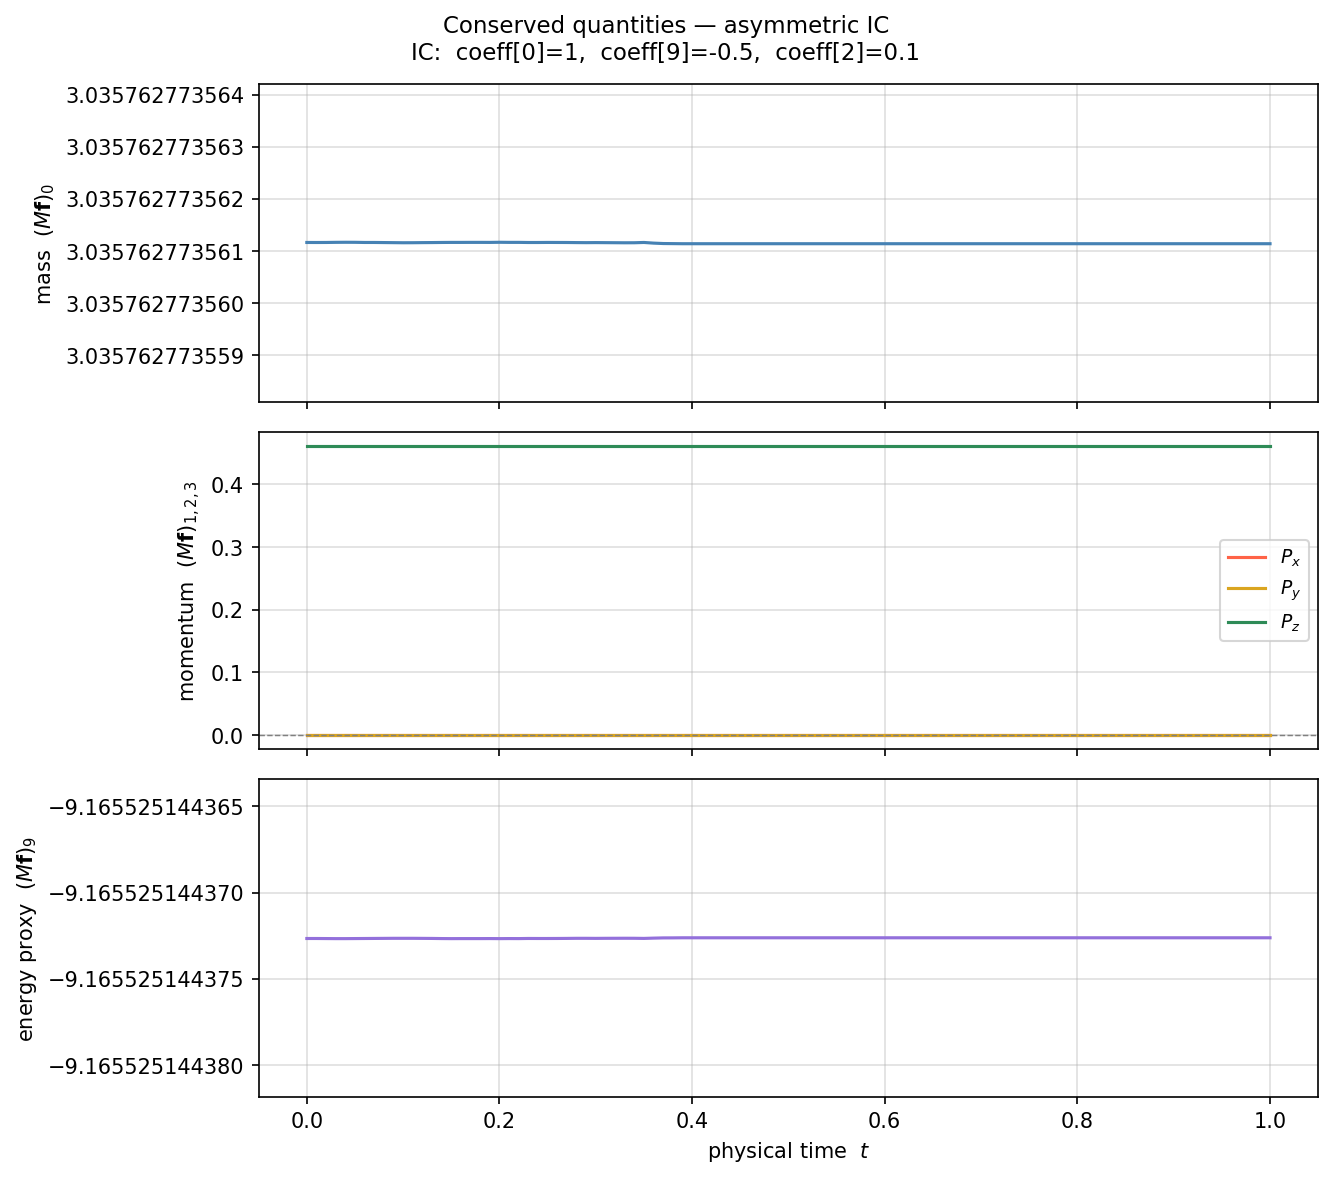
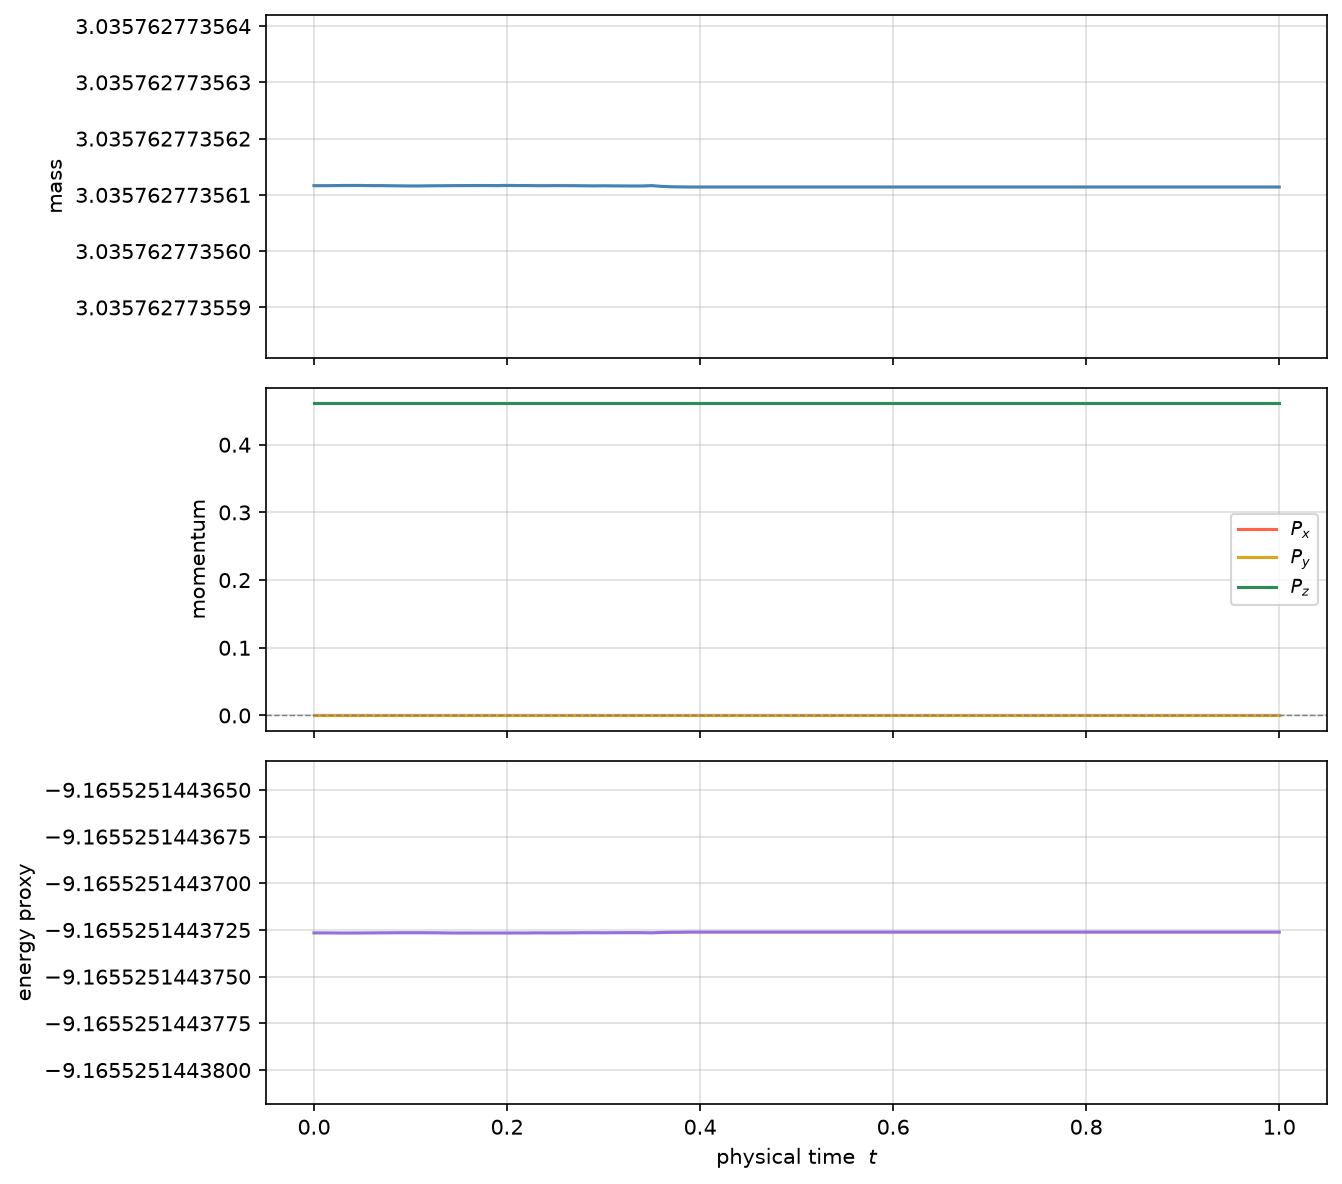
plot: fix 1D cut label p_x→p_z (cut is along z-axis, theta=0); asymmetric figures

diff --git a/plot/plot.py b/plot/plot.py
@@ -45,7 +45,7 @@ equil_step = 1500    # which saved pkl is treated as the equilibrium snapshot
 ic_label   = _IC_LABELS[experiment]
 # ── end flags ─────────────────────────────────────────────────────────────────
 
-# x-axis evaluation grid (along the x-axis: y=z=0)
+# evaluation grid along the z-axis (theta=0 → z-direction; x here is the plot axis parameter)
 N_PTS = 200
 x    = np.linspace(-5, 5, N_PTS)
 r    = np.abs(x)
@@ -96,7 +96,7 @@ if mode == 'single':
     plt.plot(x, f, marker='o', markersize=3)
     plt.axhline(0, color='gray', linewidth=0.7, linestyle='--')
     plt.title(plt_name)
-    plt.xlabel(r'$p_x$')
+    plt.xlabel(r'$p_z$')
     plt.ylabel(r'$f(p)$')
     plt.grid(True, alpha=0.4)
     if show: plt.show()
@@ -142,7 +142,7 @@ elif mode == 'overlay':
         ax.plot(x, f, color=color, label=step_label(step))
 
     ax.axhline(0, color='gray', linewidth=0.7, linestyle='--')
-    ax.set_xlabel(r'$p_x$')
+    ax.set_xlabel(r'$p_z$')
     ax.set_ylabel(r'$f(p)$')
     ax.legend(fontsize=9, loc='upper right')
     ax.grid(True, alpha=0.4)

diff --git a/plot/plot2d.py b/plot/plot2d.py
@@ -10,7 +10,7 @@ from naming import load_with_meta
 # ── flags ─────────────────────────────────────────────────────────────────────
 # experiment: 'symmetric' | 'asymmetric' | 'zero_momentum'
 # Set this to match ic_mode in time_evol/time_ev.py before running.
-experiment = 'symmetric'
+experiment = 'asymmetric'
 
 _IC_LABELS = {
     'symmetric':     r'$\alpha_{0,0,0}=1$, $\alpha_{1,0,0}=-1/2$',

diff --git a/plot/plot_conservation.py b/plot/plot_conservation.py
@@ -8,7 +8,7 @@ import os
 # ── flags ─────────────────────────────────────────────────────────────────────
 # experiment: 'symmetric' | 'asymmetric' | 'zero_momentum'
 # Must match the CSV produced by time_evol/conservation_check.py.
-experiment = 'symmetric'
+experiment = 'asymmetric'
 
 _IC_LABELS = {
     'symmetric':     r'$\alpha_{0,0,0}=1$, $\alpha_{1,0,0}=-1/2$',
